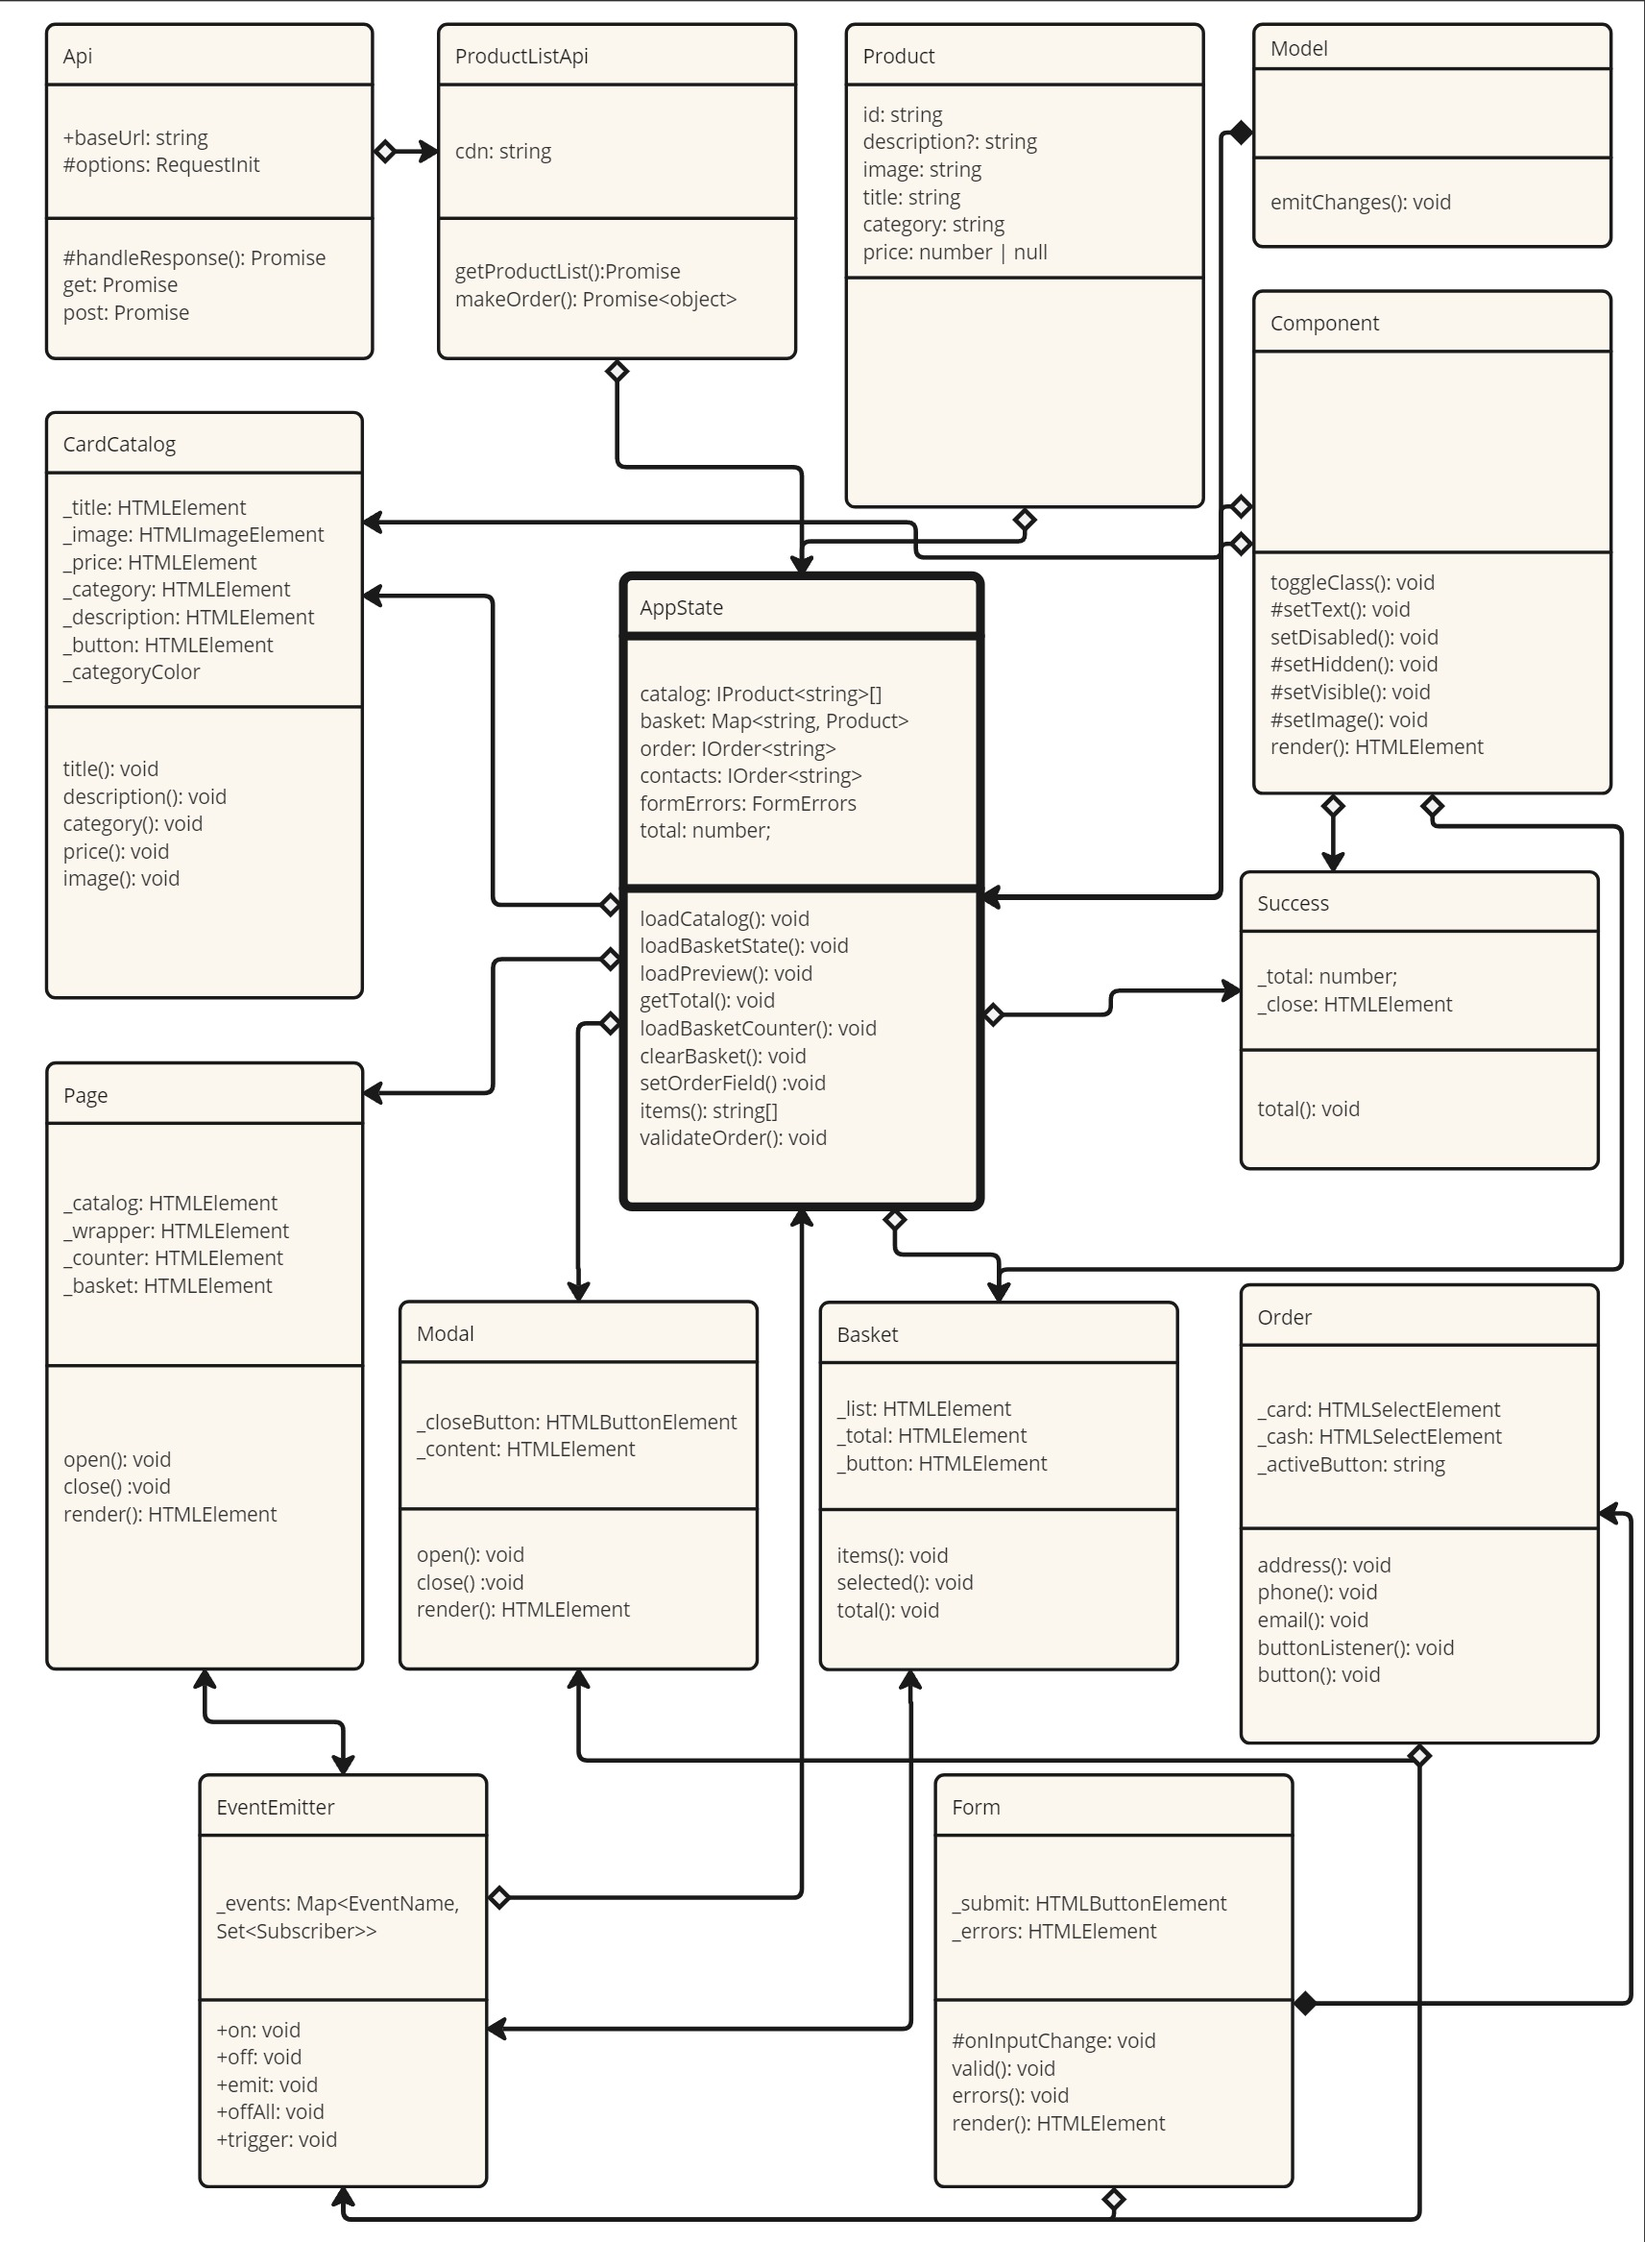
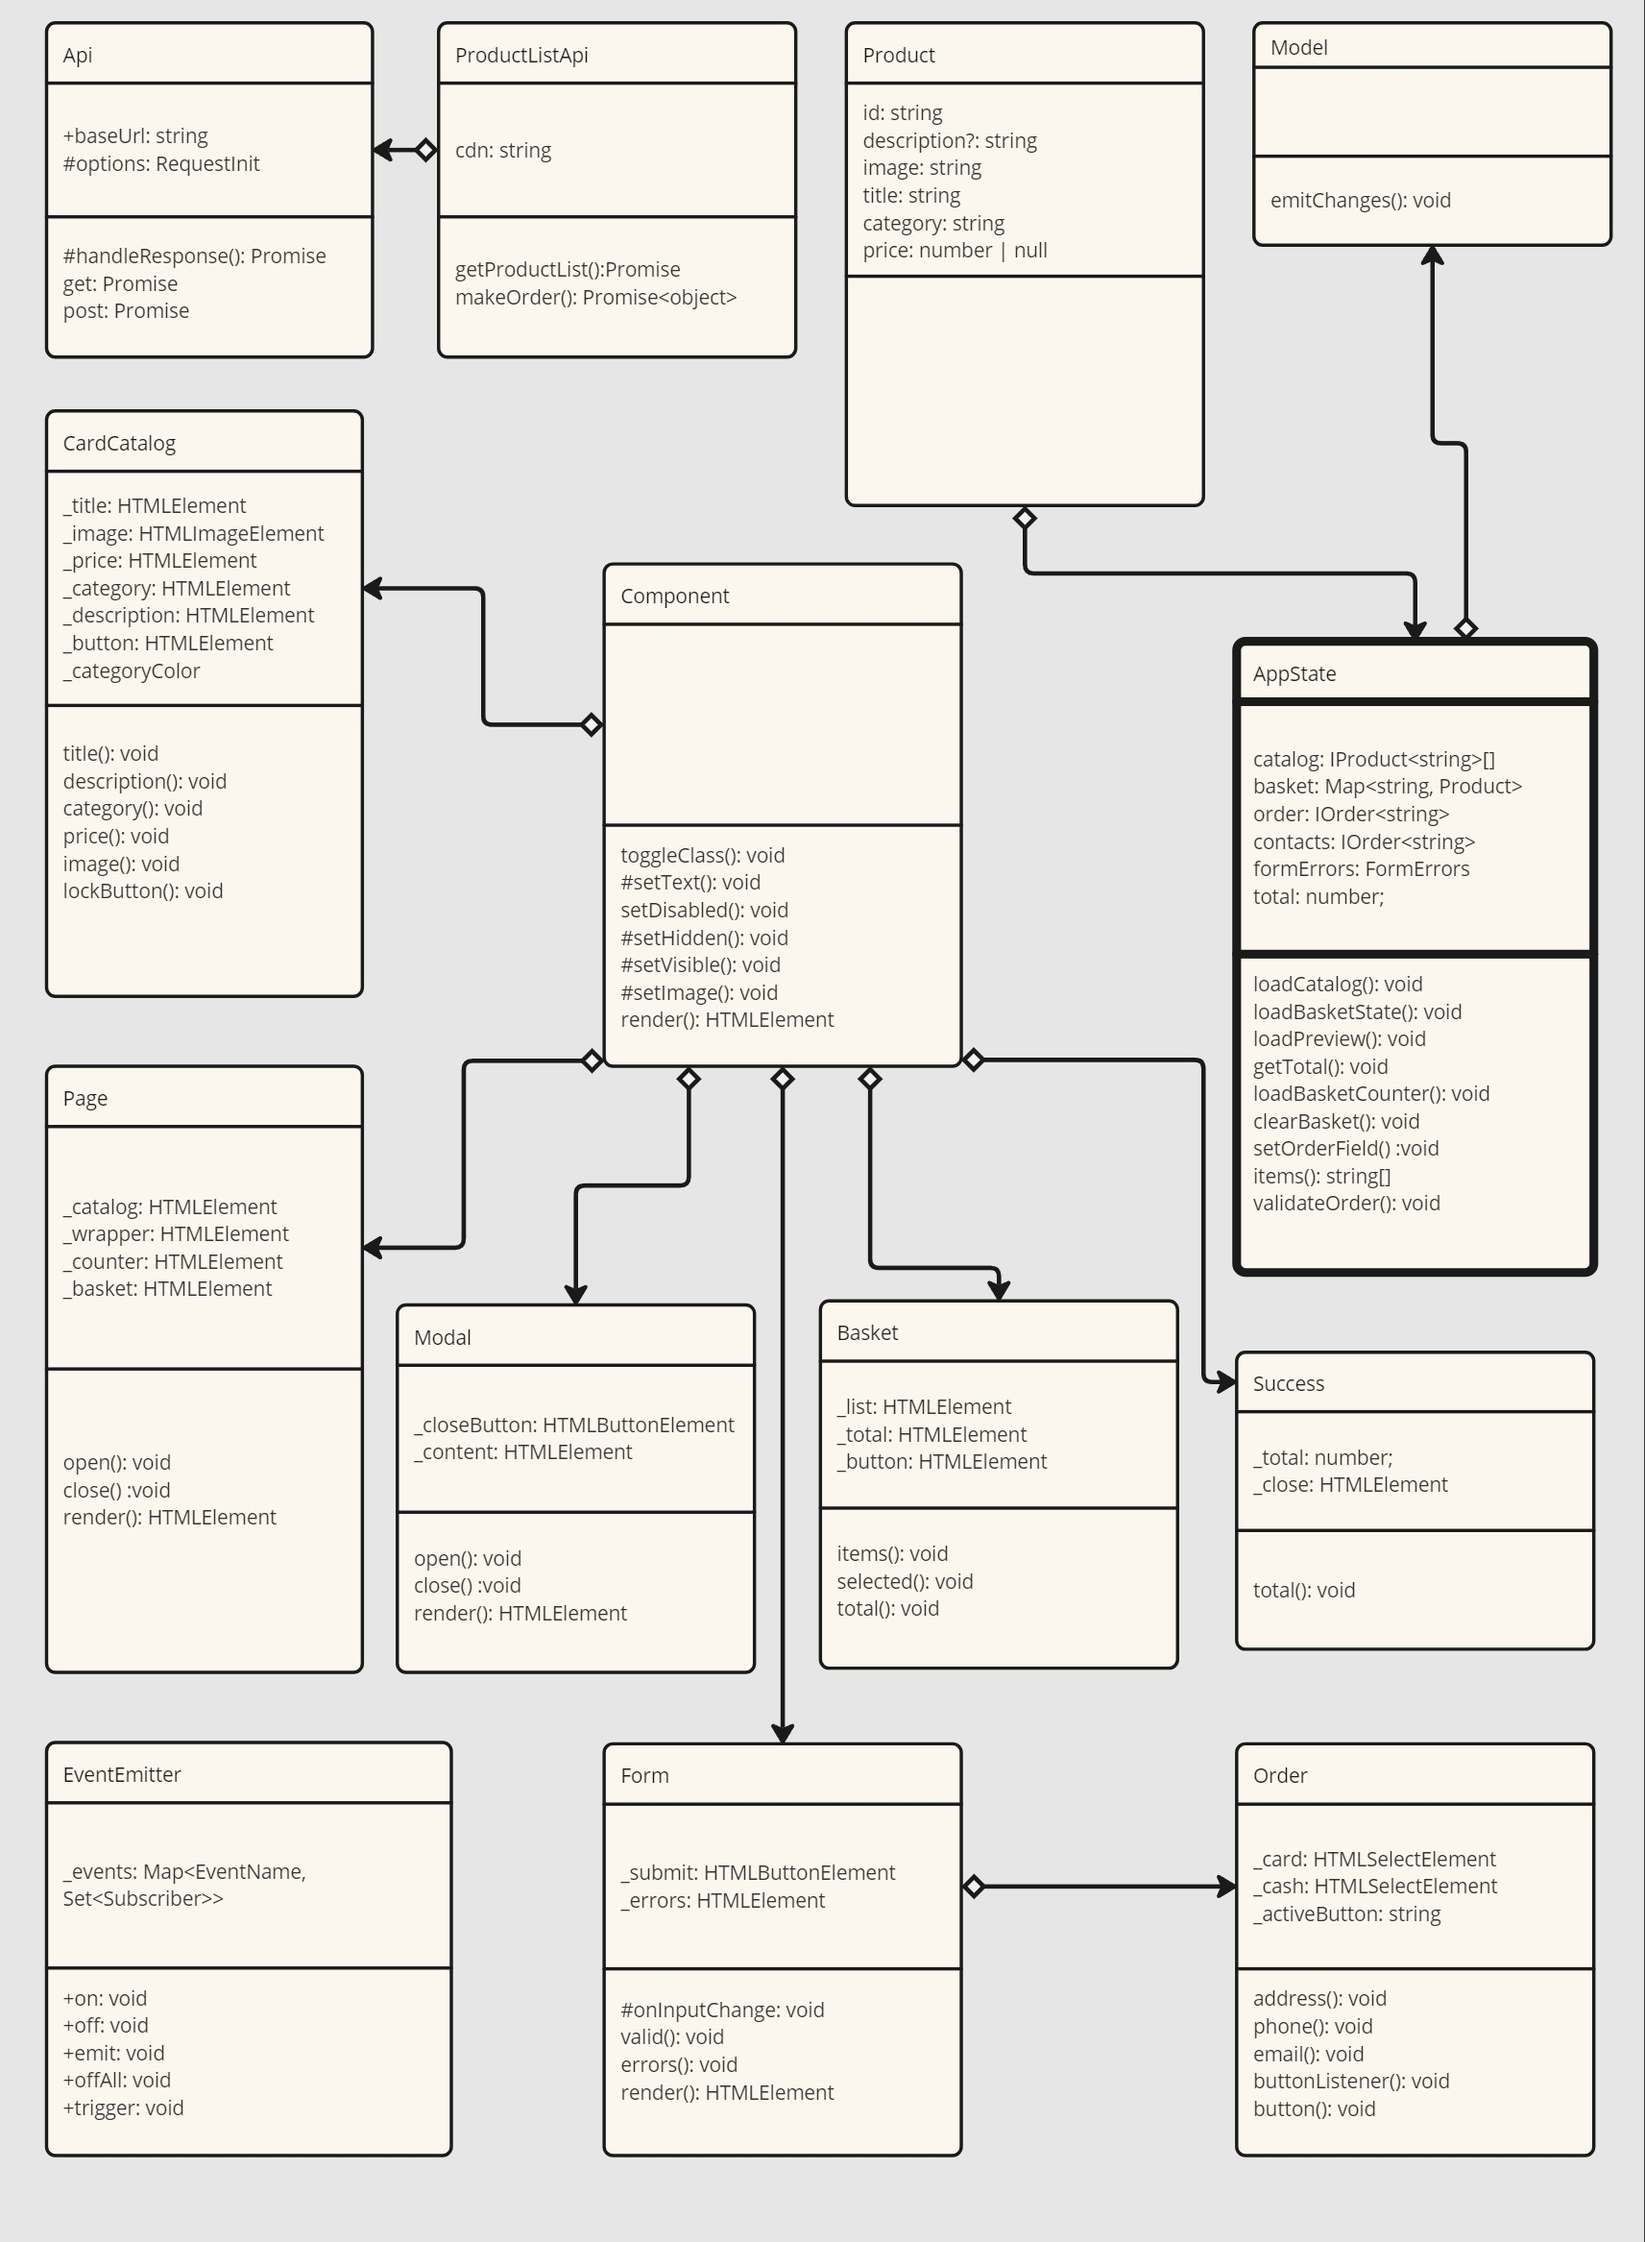
Final: Sequel

diff --git a/src/index.ts b/src/index.ts
@@ -29,7 +29,13 @@ const page = new Page(document.body, events)
 const modal = new Modal(ensureElement<HTMLElement>('#modal-container'), events)
 const basket = new Basket(cloneTemplate(basketTemplate), events)
 const order = new Order(cloneTemplate(orderTemplate), events)
-const orderContacts = new Order(cloneTemplate(contactsTemplate), events)
+const orderContacts = new Order(cloneTemplate(contactsTemplate), events, {
+  onClick: () => {
+    appData.clearBasket();
+    events.emit('basket:changed');
+  }
+})
+const orderSuccess = new Success(cloneTemplate(successTemplate), { onClick: () => modal.close() })
 
 events.on<CatalogChangeEvent>('items:changed', () => {
   page.catalog = appData.catalog.map(item => {
@@ -54,6 +60,9 @@ events.on('card:select', (item: IProduct<string>) => {
           modal.close();
       }
       });
+      if (appData.basket.has(item.id)) {
+        card.lockButton = true
+      }
       modal.render({
           content: card.render({
               title: item.title,
@@ -148,13 +157,6 @@ events.on('contacts:submit', () => {
   }
   api.makeOrder(postOrder)
   .then((res: ISuccessfulOrder) => {
-    const orderSuccess = new Success(cloneTemplate(successTemplate), {
-      onClick: () => {
-        modal.close();
-        appData.clearBasket();
-        events.emit('basket:changed');
-      }
-    })
     modal.render({
       content: orderSuccess.render()
     })

diff --git a/src/components/common/Form.ts b/src/components/common/Form.ts
@@ -6,12 +6,15 @@ import {IFormState} from "../../types";
 export class Form<T> extends Component<IFormState> {
     protected _submit: HTMLButtonElement;
     protected _errors: HTMLElement;
+    protected _validity: boolean;
+    protected _inputs: HTMLInputElement[];
 
     constructor(protected container: HTMLFormElement, protected events: IEvents) {
         super(container);
 
         this._submit = ensureElement<HTMLButtonElement>('button[type=submit]', this.container);
         this._errors = ensureElement<HTMLElement>('.form__errors', this.container);
+        this._inputs = Array.from(this.container.querySelectorAll('.form__input'));
 
         this.container.addEventListener('input', (e: Event) => {
             const target = e.target as HTMLInputElement;
@@ -34,7 +37,9 @@ export class Form<T> extends Component<IFormState> {
     }
 
     set valid(value: boolean) {
-        this._submit.disabled = !value;
+        if (this._inputs.every((input: HTMLInputElement) => { return input.validity.valid })) {
+            this._submit.disabled = !value;
+        }
     }
 
     set errors(value: string) {

diff --git a/src/components/common/Order.ts b/src/components/common/Order.ts
@@ -1,5 +1,5 @@
 import { Form } from "../common/Form";
-import { IOrder} from "../../types";
+import { IOrder, ISuccessActions } from "../../types";
 import { IEvents } from "../base/events";
 
 export class Order<T> extends Form<IOrder<T>> {
@@ -7,11 +7,15 @@ export class Order<T> extends Form<IOrder<T>> {
     protected _cash: HTMLButtonElement;
     protected _activeButton = 'button_alt-active';
 
-    constructor(container: HTMLFormElement, events: IEvents) {
+    constructor(container: HTMLFormElement, events: IEvents, actions?: ISuccessActions) {
         super(container, events);
 
         this._card = this.container.elements.namedItem('card') as HTMLButtonElement;
         this._cash = this.container.elements.namedItem('cash') as HTMLButtonElement;
+
+        if (actions?.onClick) {
+            this.container.addEventListener('submit', actions.onClick);
+        }
     }
 
     set address(value: string) {

diff --git a/src/components/common/Success.ts b/src/components/common/Success.ts
@@ -11,7 +11,7 @@ export class Success extends Component<ISuccess> {
         this._close = ensureElement<HTMLElement>('.order-success__close', this.container);
         this._total = ensureElement<HTMLElement>('.order-success__description', this.container);
 
-        if (actions?.onClick) {
+        if (actions.onClick) {
             this._close.addEventListener('click', actions.onClick);
         }
     }

diff --git a/src/components/common/Card.ts b/src/components/common/Card.ts
@@ -61,4 +61,7 @@ export class CardCatalog<T> extends Component<T> {
   set image(value: string) {
     this.setImage(this._image, value, this.title)
   }
+  set lockButton(value: boolean) {
+    this.setDisabled(this._button, value) 
+  }
 }

diff --git a/README.md b/README.md
@@ -52,7 +52,7 @@ yarn build
 2. Выбор товара
 3. Оформление заказа
 
-## Архитектура проекта (MVC)
+## Архитектура проекта (MVP)
 
 ### Model
 
@@ -142,11 +142,11 @@ yarn build
 
 Отвечает за показ окна успешного оформления заказа. Имеет поля с кнопкой завершения и счетчиком суммы. Метод **total** меняет строку с информацией о списании в корректном виде.
 
-### Controller
+### Presenter
 
 #### Класс EventEmitter
 
-Основной класс, отвечающий за подписку на события и их активацию в приложении. Имеет одно поле - **_events**. Это коллекция, в которую записываются названия и ссылки на функции, которые будут вызываться при событиях. Методы:
+Основной класс, отвечающий за подписку на события и их активацию в приложении. Является брокером событий. Имеет одно поле - **_events**. Это коллекция, в которую записываются названия и ссылки на функции, которые будут вызываться при событиях. Методы:
 
 * **on** - добавляет колбэк к событию, добавляет событие в коллекцию, если оно отсутствует;
 * **off** - удаляет колбэк события, удаляет событие из коллекции, если список подписчиков пуст;
@@ -156,7 +156,7 @@ yarn build
 * **trigger** - возвращает функцию, которая вызывает событие и принимает колбэк с контекстом и переданными данными;
 
 
-### Соединение модели и представления
+#### Соединение модели и представления
 
 Соединение происходит через файл **index.ts**. Взаимодействие слоев осуществляется через брокер событий. Сначала создаются экземпляры классов с необходимыми данными. Список всех прописанных событий:
 
